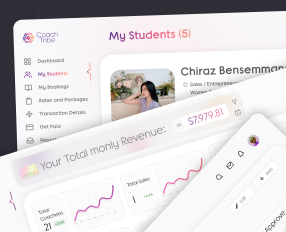
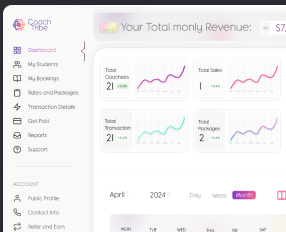
made my works intro header image bigger

diff --git a/css/myWorkPages.css b/css/myWorkPages.css
@@ -28,6 +28,9 @@ main{
     position: relative;
     flex-direction: column;
     width: 922px;
+    align-items: center;
+    align-content: center;
+    justify-content: center;
     gap: 40px;
 }
 #workPageMain--header--img {
@@ -177,7 +180,8 @@ main{
     display: flex;
     position: relative;
     flex-direction: column;
-    width: 96%;
+    justify-content: center;
+    width: 99%;
     gap: 20px;
 }
   #workPageMain--header--img {
@@ -185,7 +189,7 @@ main{
     height: fit-content;
   }
   .finalDesignPreview--imgs--container {
-    margin-bottom: 10px;
+    margin-bottom: 50px;
     
   }
   #finalDesignPreview--header{
@@ -193,23 +197,20 @@ main{
     margin-top: 20px;
   }
   #workPage--intro--txt {
-    color: #8d9bb0;
-    width: 96%;
+    
+    width: 98%;
     padding: 0px;
     margin: 0px;
     padding: 20px;
     font-size: 1.2rem;
-  }
-  border-top-style {
-    margin-left: 20px;
-    margin-right: 20px;
+    text-align: justify;
   }
   #summarysummary--cards--container{
     width: 96%;
   }
   #finalDesignPreview--container {
     max-width: 480px;
-    width: 96%;
+    width: 99%;
     margin: 0px;
     padding: 0px;
     flex-basis: auto;
@@ -218,7 +219,11 @@ main{
   .finalDesignPreview--img {
   display: flex;
   position: relative;
-  width: 360px;
+  width: 300px;
   gap: 20px;
+}
+#workPageMain--header--img{
+    height: 200px;
+
 }
 }

diff --git a/pages/art-hunt.html b/pages/art-hunt.html
@@ -229,8 +229,11 @@
       </nav>
     <main>
       <section  id="overView--intro-container">
-        <h1 id="workPageMain--header">Art gunt app</h1>
-        <h2 id="h2--demer">Overview</h2>
+        <div id="overView--intro--header">
+         <h1 id="workPageMain--header">Art gunt app</h1>
+         <h2 id="h2--dimmer">Overview</h2> 
+        </div>
+        
         <img id="workPageMain--header--img" src="/img/coach-tribe-header.png" alt="">
         <p id="workPage--intro--txt">
             Art Hunt Project is an innovative mobile app meticulously crafted 

diff --git a/css/styles.css b/css/styles.css
@@ -490,30 +490,7 @@ h4 {
   opacity: 50%;
   z-index: 4;
 }
-footer {
-  width: 100%;
-  position: relative;
-  height: 100%;
-  display: flex;
-  margin: auto;
-  align-items: center;
-  align-content: center;
-  justify-content: center;
-}
-.footer-icons {
-  width: 25px;
-  position: relative;
-}
-.footer-social-icons {
-  width: fit-content;
-  position: relative;
-  height: auto;
-  display: flex;
-  align-content: center;
-  justify-content: center;
-  gap: 50px;
-  margin: 50px 0px 50px 0px;
-}
+
 
 /* \\\\\\\\\\ .7. MEDIA QUERIES //////*/
 

diff --git a/css/footer.css b/css/footer.css
@@ -1,0 +1,24 @@
+footer {
+  width: 100%;
+  position: relative;
+  height: 100%;
+  display: flex;
+  margin: auto;
+  align-items: center;
+  align-content: center;
+  justify-content: center;
+}
+.footer-icons {
+  width: 25px;
+  position: relative;
+}
+.footer-social-icons {
+  width: fit-content;
+  position: relative;
+  height: auto;
+  display: flex;
+  align-content: center;
+  justify-content: center;
+  gap: 50px;
+  margin: 50px 0px 50px 0px;
+}

diff --git a/p.html b/p.html
@@ -227,6 +227,7 @@
       </nav>
     <!-- ****** main ****** -->
     <main>
+      <section id="recentAcivities--container">
      <div class="squircleStyle--header">
           <img
             class="squircleStyle--header--icn"
@@ -311,6 +312,7 @@
         </a>
           <!-- 🍇 -->
           </div>
+          </section>
     </main>
     <footer">
       <div class="footer-social-icons">
